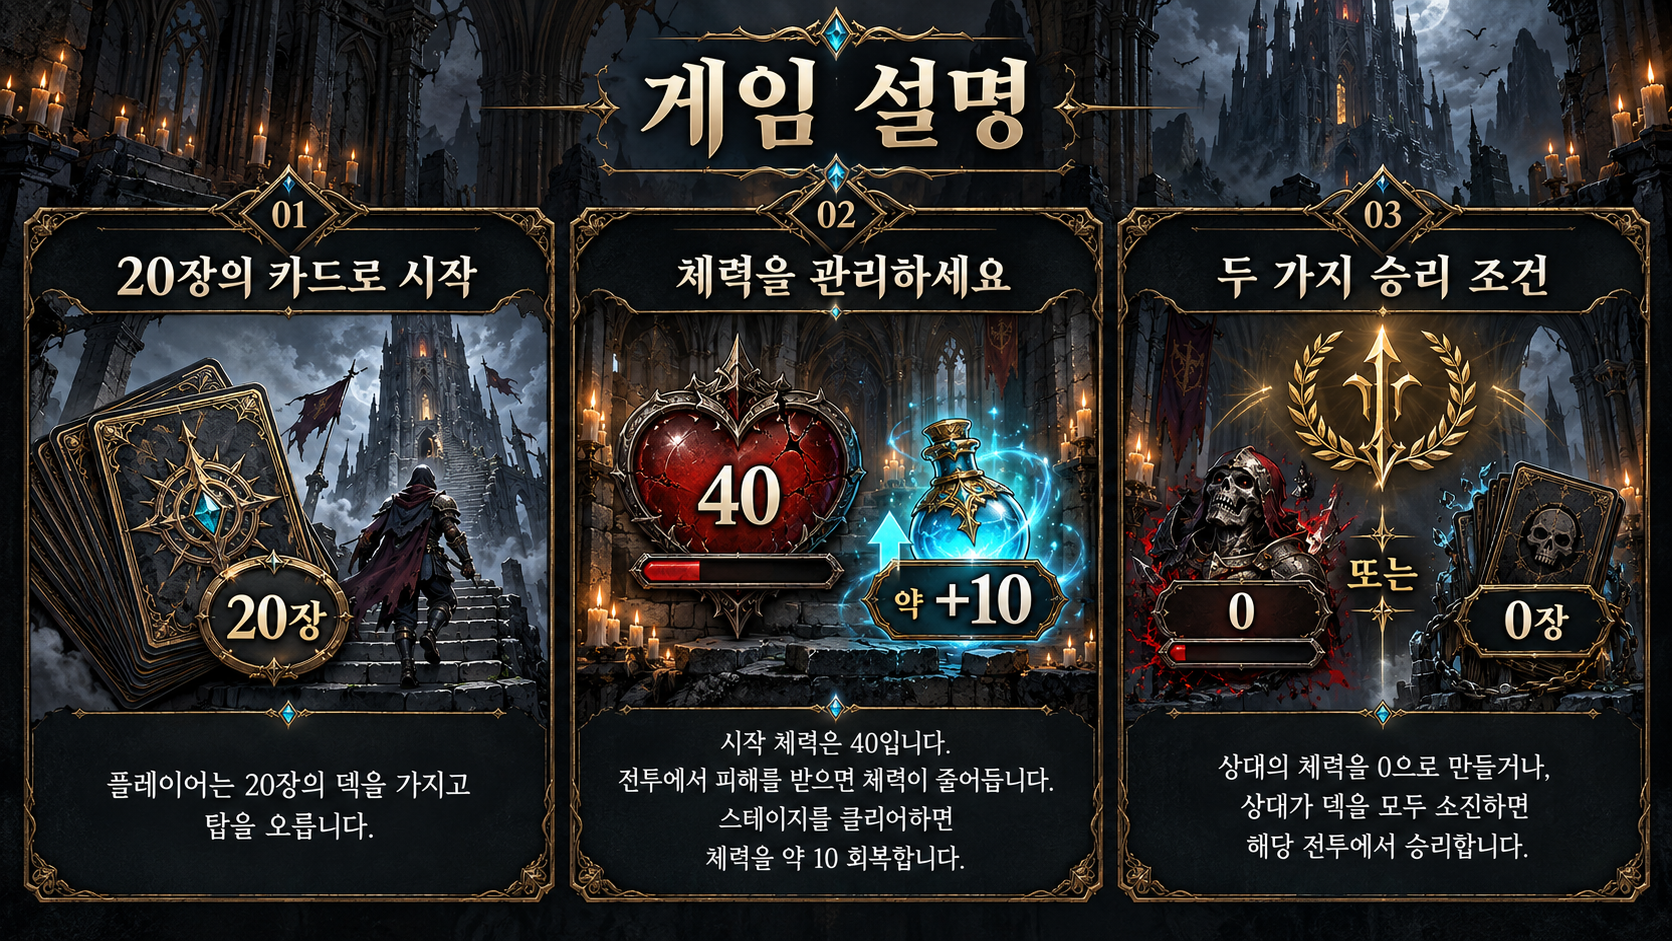
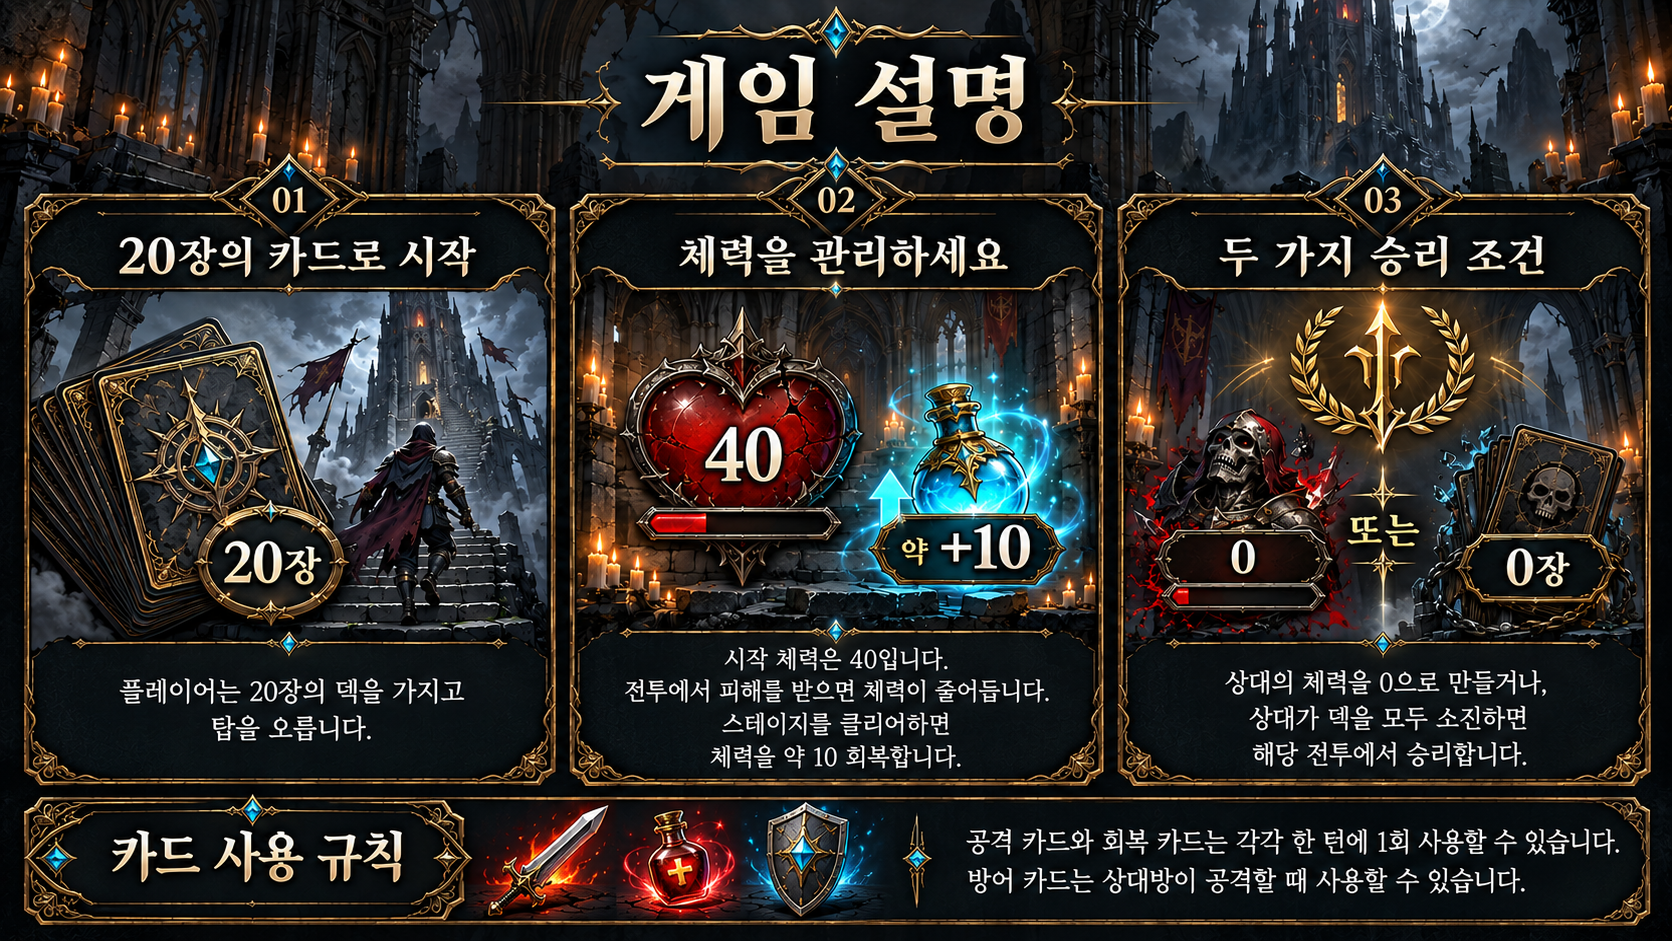
feat: 게임 설명 그림 교체, 손패 카드에 마우스를 올리면 설명 상자 표시
- 게임 설명 그림을 '카드 사용 규칙' 줄이 추가된 새 그림으로 교체
- 전투 중 내 손패 카드에 마우스를 올리면 카드 위쪽에 설명 상자(CardInfoPopup) 표시
  - 이름·종류·비용·효과·사용 규칙, 지금 못 쓰면 이유(에너지 부족, 내 턴 아님 등)
  - 작은 기본 말풍선 대신 표시, 마우스를 내리면 사라짐
- CardHoverCheck 추가

Claude-Session: https://claude.ai/code/session_013dthjuhuAFs9PPZrff1Gmp

diff --git a/src/game/frontend/battle/CardInfoPopup.java b/src/game/frontend/battle/CardInfoPopup.java
@@ -1,0 +1,126 @@
+package game.frontend.battle;
+
+import game.backend.model.Card;
+import game.backend.model.CardType;
+import game.frontend.common.Theme;
+import java.awt.*;
+import java.util.ArrayList;
+import java.util.List;
+import javax.swing.JComponent;
+
+/**
+ * 손패 카드 위에 마우스를 올렸을 때 카드 위쪽에 뜨는 설명 상자.
+ * 이름 · 종류 · 비용 · 효과 · 사용 규칙 · (사용 못 하는 이유)를 보여줍니다.
+ */
+public final class CardInfoPopup extends JComponent {
+    private static final int WIDTH = 280;
+    private Card card;
+    private String status; // 예: "에너지 부족" (사용 가능하면 null)
+
+    public CardInfoPopup() {
+        setOpaque(false);
+        setVisible(false);
+    }
+
+    /** card 설명을 anchor(카드 위치) 위쪽에 띄웁니다. area 는 화면 전체 크기입니다. */
+    public void showFor(Card card, String status, Rectangle anchor, Dimension area) {
+        this.card = card;
+        this.status = status;
+        int height = preferredHeight();
+        int x = anchor.x + anchor.width / 2 - WIDTH / 2;
+        int y = anchor.y - height - 10;
+        if (y < 8) y = anchor.y + anchor.height + 10;          // 위에 공간이 없으면 아래로
+        x = Math.max(8, Math.min(x, area.width - WIDTH - 8));    // 화면 밖으로 나가지 않게
+        y = Math.max(8, Math.min(y, area.height - height - 8));
+        setBounds(x, y, WIDTH, height);
+        setVisible(true);
+        repaint();
+    }
+
+    public void hidePopup() {
+        setVisible(false);
+        card = null;
+    }
+
+    public Card card() { return card; }
+
+    /** 종류별 사용 규칙 (게임 설명의 '카드 사용 규칙'과 같은 내용). */
+    static String rule(CardType type) {
+        return switch (type) {
+            case ATTACK -> "내 턴에 1장 · 상대가 방어 카드로 막을 수 있음";
+            case HEAL -> "내 턴에 1장 사용 가능";
+            case DEFENSE -> "상대가 공격할 때만 사용 가능";
+            case SPELL -> "공격·회복 제한과 관계없이 사용 가능";
+        };
+    }
+
+    private List<String> wrap(String text, FontMetrics fm, int width) {
+        List<String> lines = new ArrayList<>();
+        StringBuilder line = new StringBuilder();
+        for (String word : text.split(" ")) {
+            String next = line.length() == 0 ? word : line + " " + word;
+            if (fm.stringWidth(next) > width && line.length() > 0) { lines.add(line.toString()); line = new StringBuilder(word); }
+            else line = new StringBuilder(next);
+        }
+        if (line.length() > 0) lines.add(line.toString());
+        return lines;
+    }
+
+    private int preferredHeight() {
+        FontMetrics fm = getFontMetrics(Theme.font(Font.PLAIN, 14));
+        int lines = card == null ? 1 : wrap(card.description(), fm, WIDTH - 32).size();
+        return 104 + lines * 20 + (status != null ? 24 : 0);
+    }
+
+    @Override protected void paintComponent(Graphics graphics) {
+        if (card == null) return;
+        Graphics2D g = (Graphics2D) graphics.create();
+        g.setRenderingHint(RenderingHints.KEY_ANTIALIASING, RenderingHints.VALUE_ANTIALIAS_ON);
+        g.setRenderingHint(RenderingHints.KEY_TEXT_ANTIALIASING, RenderingHints.VALUE_TEXT_ANTIALIAS_ON);
+        int w = getWidth(), h = getHeight();
+        Color accent = Theme.accent(card.type());
+        // 바탕과 금색 테두리
+        g.setColor(new Color(8, 12, 18, 238));
+        g.fillRoundRect(0, 0, w - 1, h - 1, 16, 16);
+        g.setColor(new Color(176, 141, 78));
+        g.setStroke(new BasicStroke(2f));
+        g.drawRoundRect(1, 1, w - 3, h - 3, 16, 16);
+        g.setColor(accent);
+        g.fillRoundRect(1, 1, 8, h - 3, 6, 6);
+
+        // 비용 원
+        g.setColor(accent);
+        g.fillOval(w - 48, 12, 34, 34);
+        g.setColor(Color.WHITE);
+        g.setFont(Theme.font(Font.BOLD, 18));
+        String cost = Integer.toString(card.cost());
+        g.drawString(cost, w - 31 - g.getFontMetrics().stringWidth(cost) / 2, 35);
+
+        // 이름 · 종류
+        g.setFont(Theme.font(Font.BOLD, 18));
+        g.setColor(Theme.GOLD);
+        g.drawString(card.name(), 20, 32);
+        g.setFont(Theme.font(Font.BOLD, 13));
+        g.setColor(accent.brighter());
+        g.drawString(card.type().label() + " 카드 · 에너지 " + card.cost(), 20, 52);
+
+        // 효과 설명
+        g.setFont(Theme.font(Font.PLAIN, 14));
+        g.setColor(Theme.TEXT);
+        int y = 78;
+        for (String line : wrap(card.description(), g.getFontMetrics(), w - 32)) { g.drawString(line, 20, y); y += 20; }
+
+        // 사용 규칙
+        g.setColor(new Color(176, 141, 78, 120));
+        g.drawLine(20, y - 6, w - 20, y - 6);
+        g.setFont(Theme.font(Font.PLAIN, 12));
+        g.setColor(Theme.MUTED);
+        g.drawString(rule(card.type()), 20, y + 12);
+        if (status != null) {
+            g.setFont(Theme.font(Font.BOLD, 13));
+            g.setColor(new Color(235, 126, 108));
+            g.drawString("지금은 사용 불가 · " + status, 20, y + 34);
+        }
+        g.dispose();
+    }
+}

diff --git a/src/game/frontend/battle/BattleScreenPanel.java b/src/game/frontend/battle/BattleScreenPanel.java
@@ -18,6 +18,8 @@ public final class BattleScreenPanel extends JPanel {
     private final BattleBoardPanel board;
     private final HandPanel hand = new HandPanel();
     private final BattleEffectOverlay effects=new BattleEffectOverlay();
+    // 손패 카드에 마우스를 올리면 뜨는 설명 상자
+    private final CardInfoPopup cardInfo=new CardInfoPopup();
     private final JTextArea history=new JTextArea();
     private final java.util.Deque<String> recentActions=new java.util.ArrayDeque<>();
     private final int stage;
@@ -74,6 +76,7 @@ public final class BattleScreenPanel extends JPanel {
         message.setBorder(BorderFactory.createEmptyBorder(0, 10, 0, 10));
         hand.setOpaque(false);
         hand.setLayout(null); // 프레임 슬롯과 버튼 위치를 같은 좌표로 맞춥니다.
+        hand.setHoverHandlers(this::showCardInfo, cardInfo::hidePopup);
         history.setEditable(false);history.setFocusable(false);history.setLineWrap(true);history.setWrapStyleWord(true);
         history.setFont(Theme.font(Font.PLAIN,12));history.setForeground(Theme.TEXT);
         history.setBackground(new Color(9,15,23));
@@ -230,6 +233,7 @@ public final class BattleScreenPanel extends JPanel {
             add(endTurn, JLayeredPane.MODAL_LAYER);
             add(history,JLayeredPane.MODAL_LAYER);
             add(effects,JLayeredPane.DRAG_LAYER);
+            add(cardInfo,Integer.valueOf(JLayeredPane.DRAG_LAYER+5));
             add(clash,JLayeredPane.PALETTE_LAYER);
             add(skipDefense,JLayeredPane.MODAL_LAYER);
             add(gameOver,Integer.valueOf(JLayeredPane.DRAG_LAYER+10));
@@ -334,6 +338,26 @@ public final class BattleScreenPanel extends JPanel {
         if(hand.getParent()!=null) {hand.getParent().doLayout();hand.getParent().repaint();}
         board.repaint();
         endTurn.setEnabled(!effects.isPlaying() && !battle.isOver() && turnPhase == TurnPhase.PLAYER_ACTIVE);
+    }
+
+    /** 손패 index 번째 카드 위에 설명 상자를 띄웁니다. 사용할 수 없으면 그 이유도 보여줍니다. */
+    private void showCardInfo(CardView view, int index) {
+        var cards=battle.hand();
+        if(index<0 || index>=cards.size() || view.getParent()==null) return;
+        var card=cards.get(index);
+        String status=null;
+        if(battle.isOver()) status="전투 종료";
+        else if(effects.isPlaying()) status="연출 중";
+        else if(turnPhase==TurnPhase.DEFENSE) status=card.type()==game.backend.model.CardType.DEFENSE
+            ? (card.cost()>battle.energy()?"에너지 부족":null) : "지금은 방어 카드만 사용";
+        else if(turnPhase!=TurnPhase.PLAYER_ACTIVE) status="내 턴이 아님";
+        else if(card.cost()>battle.energy()) status="에너지 부족 ("+battle.energy()+"/"+card.cost()+")";
+        else if(card.type()==game.backend.model.CardType.DEFENSE) status="상대 공격 때 사용";
+        else if(!battle.canPlay(index)) status="이번 턴에 공격/회복 카드를 이미 사용";
+        java.awt.Container layer=cardInfo.getParent();
+        if(layer==null) return;
+        Rectangle anchor=javax.swing.SwingUtilities.convertRectangle(view.getParent(),view.getBounds(),layer);
+        cardInfo.showFor(card,status,anchor,layer.getSize());
     }
 
     private void recordAction(String actor,String text) {

diff --git a/src/game/test/CardHoverCheck.java b/src/game/test/CardHoverCheck.java
@@ -1,0 +1,58 @@
+package game.test;
+
+import java.awt.*;
+import java.awt.event.MouseEvent;
+import java.awt.image.BufferedImage;
+import java.io.File;
+import javax.imageio.ImageIO;
+import javax.swing.*;
+import game.database.CardCatalog;
+import game.frontend.battle.BattleScreenPanel;
+import game.frontend.battle.CardInfoPopup;
+import game.frontend.battle.CardView;
+
+/** 손패 카드에 마우스를 올리면 설명 상자가 뜨고, 내리면 사라지는지 검사합니다. (화면이 있어야 실행됩니다) */
+public final class CardHoverCheck {
+    private static void check(boolean ok, String text) { if (!ok) throw new AssertionError(text); }
+
+    public static void main(String[] args) throws Exception {
+        File out = new File(args.length == 0 ? "preview" : args[0]);
+        out.mkdirs();
+        JFrame[] frame = {null};
+        BattleScreenPanel[] panel = {null};
+        SwingUtilities.invokeAndWait(() -> {
+            panel[0] = new BattleScreenPanel(() -> { }, 1, () -> { }, CardCatalog.allCards());
+            frame[0] = new JFrame(); frame[0].setContentPane(panel[0]); frame[0].setSize(1100, 730); frame[0].setVisible(true);
+        });
+        Thread.sleep(3400); // MY TURN 안내(3초) 후 내 턴 시작
+        SwingUtilities.invokeAndWait(() -> {
+            CardView card = find(panel[0], CardView.class);
+            CardInfoPopup popup = find(panel[0], CardInfoPopup.class);
+            check(card != null && popup != null && !popup.isVisible(), "처음에는 설명 숨김");
+            card.dispatchEvent(new MouseEvent(card, MouseEvent.MOUSE_ENTERED, System.currentTimeMillis(), 0, 10, 10, 0, false));
+            check(popup.isVisible() && popup.card() != null, "마우스 올림 → 설명 표시");
+            check(popup.getY() + popup.getHeight() <= SwingUtilities.convertPoint(card, 0, 0, popup.getParent()).y,
+                "설명 상자가 카드 위쪽에 표시");
+            check(ToolTipManager.sharedInstance() != null && card.getToolTipText() != null, "카드 정보 유지");
+            snap(frame[0].getContentPane(), new File(out, "card-hover.png"));
+            card.dispatchEvent(new MouseEvent(card, MouseEvent.MOUSE_EXITED, System.currentTimeMillis(), 0, 10, 10, 0, false));
+            check(!popup.isVisible(), "마우스 내림 → 설명 숨김");
+            frame[0].dispose();
+        });
+        System.out.println("PASS: hand card hover shows description popup above the card, hides on exit");
+        System.exit(0);
+    }
+
+    private static <T> T find(Container root, Class<T> type) {
+        for (Component c : root.getComponents()) {
+            if (type.isInstance(c) && c.isShowing() || type.isInstance(c) && type == CardInfoPopup.class) return type.cast(c);
+            if (c instanceof Container k) { T r = find(k, type); if (r != null) return r; }
+        }
+        return null;
+    }
+    private static void snap(Container c, File f) {
+        BufferedImage im = new BufferedImage(c.getWidth(), c.getHeight(), BufferedImage.TYPE_INT_RGB);
+        Graphics2D g = im.createGraphics(); c.paintAll(g); g.dispose();
+        try { ImageIO.write(im, "png", f); } catch (java.io.IOException e) { throw new RuntimeException(e); }
+    }
+}

diff --git a/src/game/frontend/battle/HandPanel.java b/src/game/frontend/battle/HandPanel.java
@@ -3,6 +3,8 @@ package game.frontend.battle;
 import game.frontend.common.Theme;
 
 import java.awt.FlowLayout;
+import java.util.function.BiConsumer;
+import javax.swing.ToolTipManager;
 import java.util.List;
 import java.util.function.IntConsumer;
 import javax.swing.JPanel;
@@ -10,6 +12,16 @@ import game.backend.model.Card;
 
 /** 카드 목록과 클릭 연결을 담당합니다. */
 public final class HandPanel extends JPanel {
+    // 카드 위에 마우스를 올리고 내릴 때 알려 줄 곳 (전투 화면의 설명 상자)
+    private BiConsumer<CardView, Integer> onHover;
+    private Runnable onHoverEnd;
+
+    /** 마우스 올림 설명을 켭니다. 켜면 작은 기본 말풍선 대신 이 콜백으로 설명을 띄웁니다. */
+    public void setHoverHandlers(BiConsumer<CardView, Integer> onHover, Runnable onHoverEnd) {
+        this.onHover = onHover;
+        this.onHoverEnd = onHoverEnd;
+    }
+
     public HandPanel() {
         super(new FlowLayout(FlowLayout.CENTER, 12, 12));
         setBackground(Theme.BACKGROUND);
@@ -18,12 +30,20 @@ public final class HandPanel extends JPanel {
     public void showCards(List<Card> cards, int energy, boolean finished, IntConsumer onUse) {
         // 이전 카드 컴포넌트를 지우고 현재 손패 목록으로 새 카드 버튼을 만듭니다.
         // 여기서 removeAll은 화면 컴포넌트 제거이며 게임 데이터 삭제가 아닙니다.
+        if (onHoverEnd != null) onHoverEnd.run(); // 카드를 새로 만들면 이전 설명은 닫습니다.
         removeAll();
         for (int i = 0; i < cards.size(); i++) {
             // 클릭할 때 사용할 손패 위치를 보관합니다. 같은 종류 카드도 위치로 구분됩니다.
             final int index = i;
             CardView view = new CardView(cards.get(i), () -> onUse.accept(index));
             view.setEnabled(!finished && cards.get(i).cost() <= energy);
+            if (onHover != null) {
+                ToolTipManager.sharedInstance().unregisterComponent(view); // 기본 말풍선 대신 큰 설명 상자
+                view.addMouseListener(new java.awt.event.MouseAdapter() {
+                    @Override public void mouseEntered(java.awt.event.MouseEvent e) { onHover.accept(view, index); }
+                    @Override public void mouseExited(java.awt.event.MouseEvent e) { onHoverEnd.run(); }
+                });
+            }
             add(view);
         }
         revalidate();

diff --git a/README.md b/README.md
@@ -85,7 +85,7 @@ src/
 │   │   ├── CardCatalog.java     카드 20종 정의
 │   │   ├── StageEnemy.java      단계별 적 이름·이미지
 │   │   └── SaveStore.java       사용자 폴더에 진행도·설정 저장 (화면과 아직 미연결)
-│   └── test/                    검사 13개 (main 실행 → PASS 출력)
+│   └── test/                    검사 14개 (main 실행 → PASS 출력)
 └── assets/                      이미지 PNG (배경, 적, 플레이어, 카드 그림, 상점, GAME OVER, 게임 설명)
 ```
 
